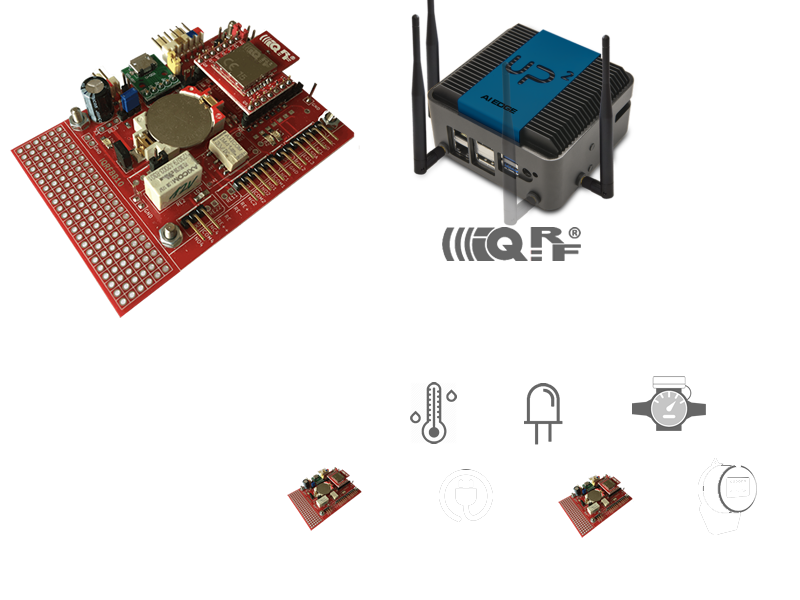
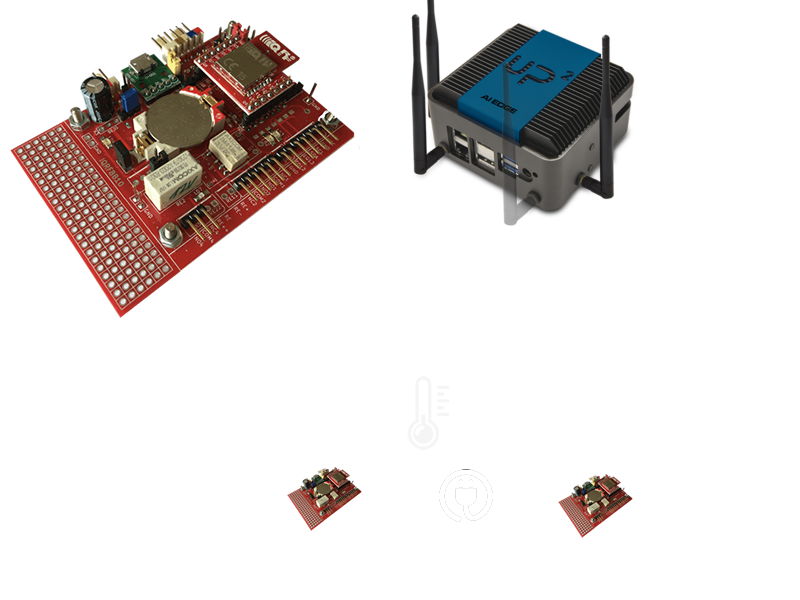
update

diff --git a/docs/index.html b/docs/index.html
@@ -23,7 +23,7 @@
   
 </head>
 <body>
-  <link rel="stylesheet" href="style.less" class="cid-rgyXE2uqFe" id="menu1-1c" data-rv-view="84"><section class="menu cid-rgyXE2uqFe" once="menu" id="menu1-1c">
+  <link rel="stylesheet" href="style.less" class="cid-rgyXE2uqFe" id="menu1-1c" data-rv-view="39"><section class="menu cid-rgyXE2uqFe" once="menu" id="menu1-1c">
 
     
 
@@ -60,7 +60,7 @@
     </nav>
 </section>
 
-<section class="engine"><a href="https://mobirise.info/t">free amp templates</a></section><section class="header4 cid-r39s6swQQt mbr-parallax-background" id="header4-1">
+<section class="engine"><a href="https://mobirise.info/x">css templates</a></section><section class="header4 cid-r39s6swQQt mbr-parallax-background" id="header4-1">
 
     
 
@@ -123,7 +123,7 @@
     <div class="container">
         <div class="media-container-row">
             <div class="mbr-figure" style="width: 170%;">
-                <img src="assets/images/iqrfboardsystem2-800x600.png" alt="Iqrf" title="">
+                <img src="assets/images/iqrfboardsystem2-2-800x600.png" alt="Iqrf" title="">
             </div>
 
             <div class="media-content">
@@ -174,7 +174,7 @@
         <div class="media-container-row">
             <div class="title col-12 col-md-8">
                 <h2 class="align-center pb-3 mbr-fonts-style display-2">
-                    Many free examples..</h2>
+                    Open Source Examples..</h2>
                 
                 
             </div>
@@ -404,7 +404,7 @@
             <div class="media-container-column col-lg-8" data-form-type="formoid">
                     <div data-form-alert="" hidden="">Thanks for filling out the form!</div>
             
[2 lines of base64/hex data omitted]
                         <div class="row row-sm-offset">
                             <div class="col-md-4 multi-horizontal" data-for="name">
                                 <div class="form-group">
